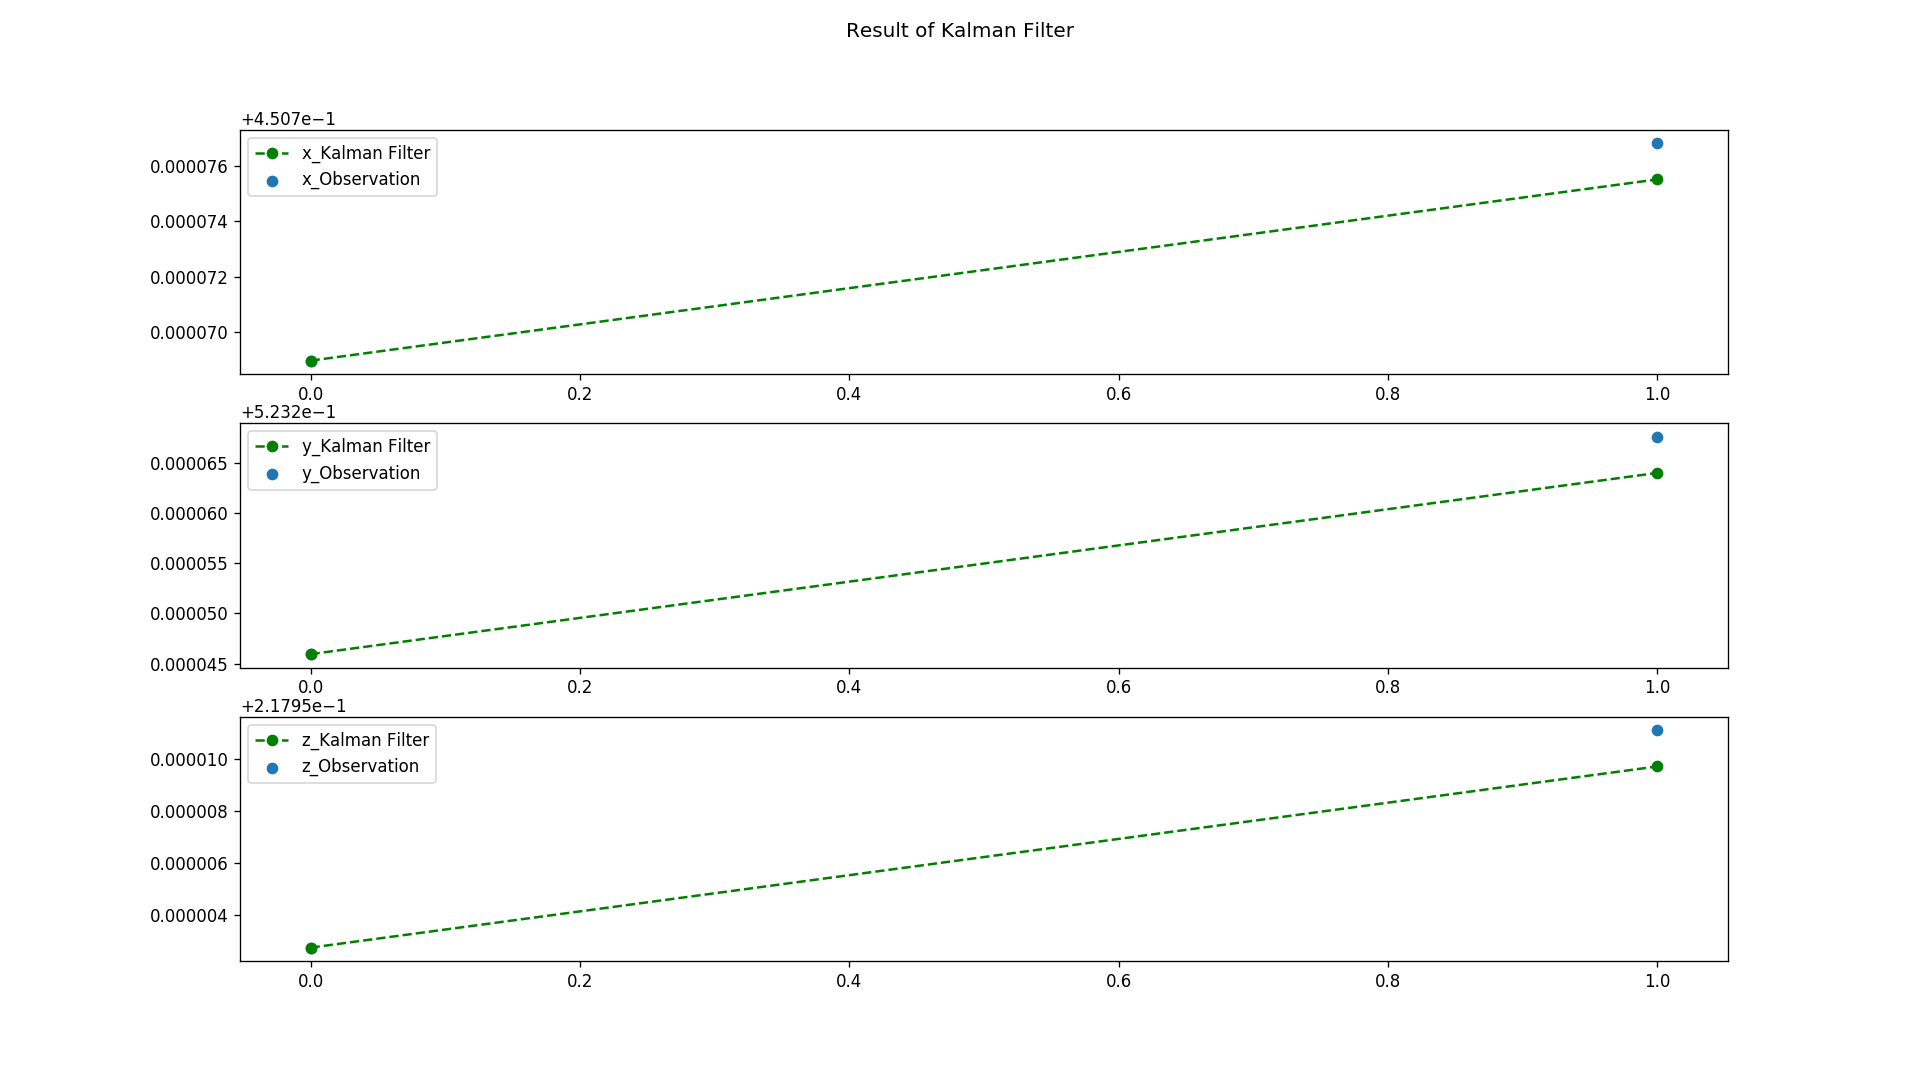
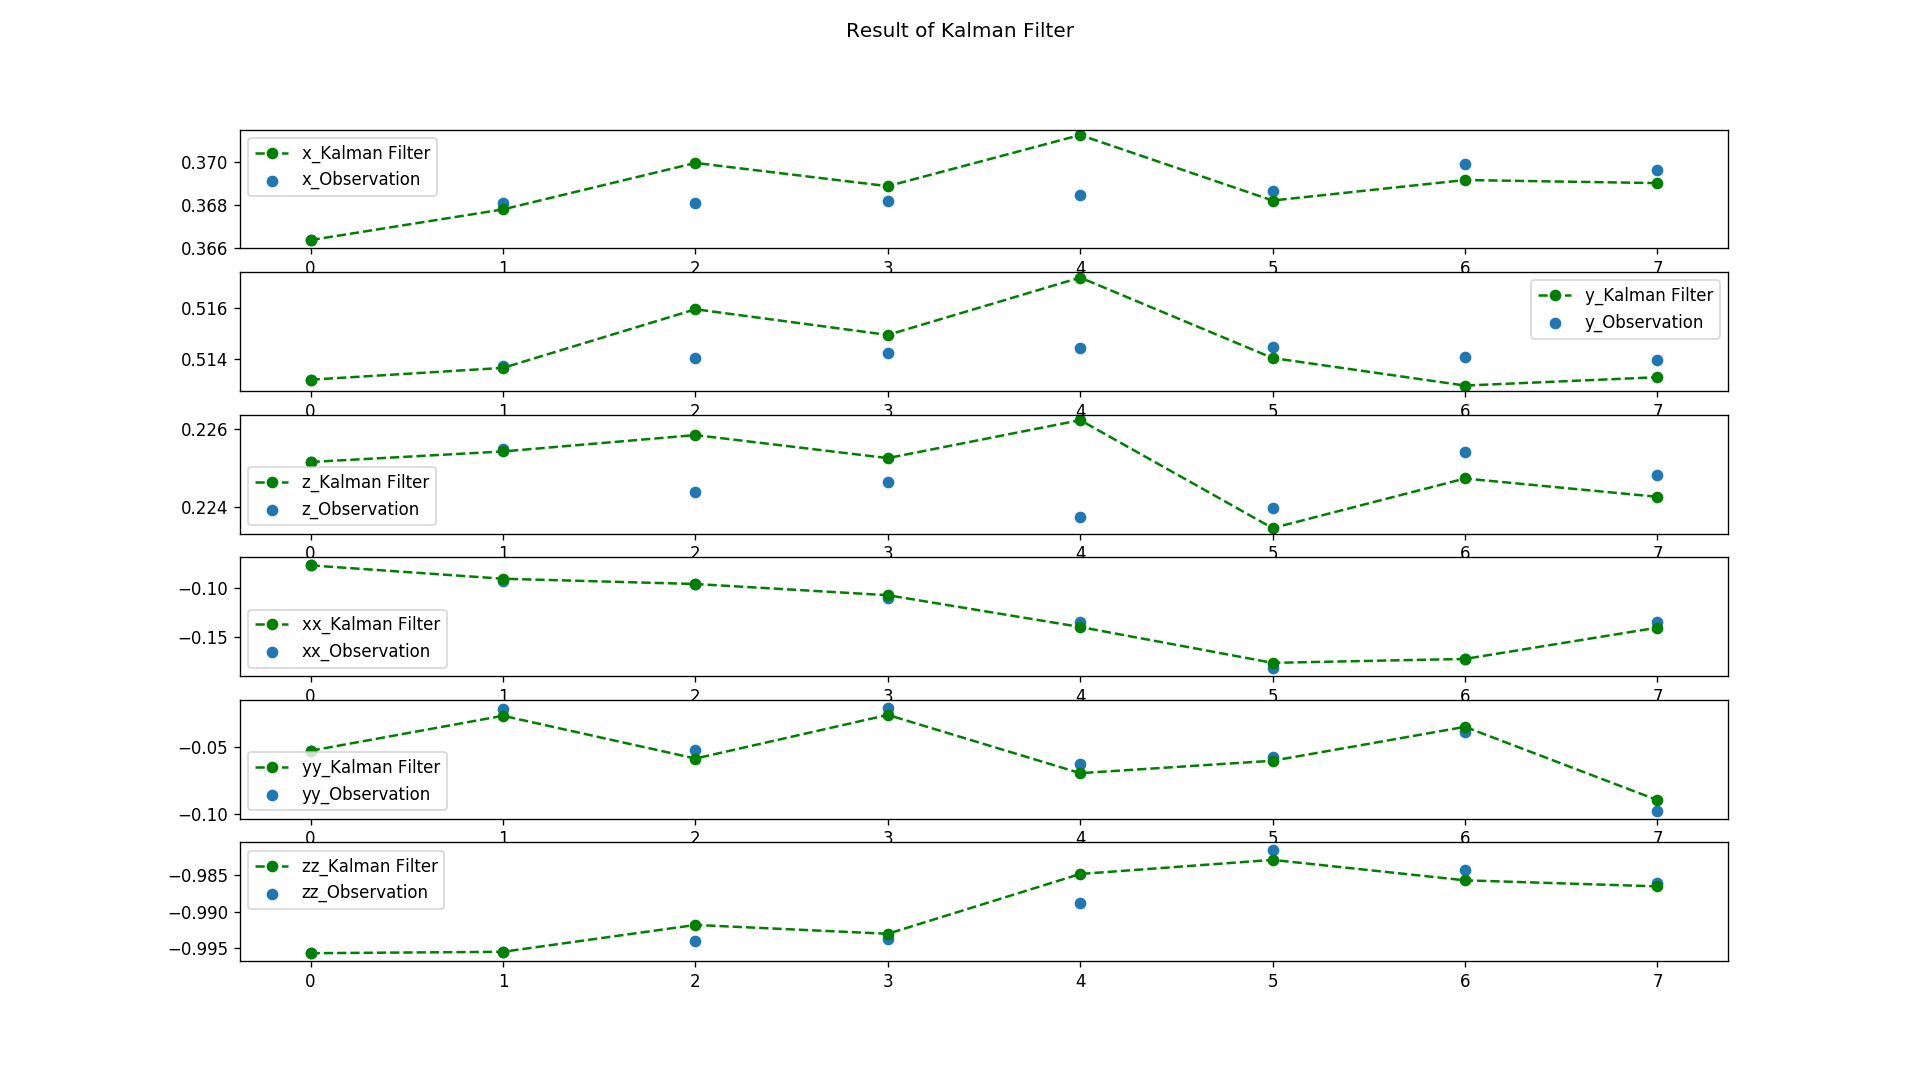
continuous disassembly success

diff --git a/rokae/src/ur_real_robot/ur_control/scripts/kalman.py b/rokae/src/ur_real_robot/ur_control/scripts/kalman.py
@@ -5,6 +5,7 @@ import numpy as np
 import matplotlib
 matplotlib.use('Agg')
 from matplotlib import pyplot as plt
+from scipy.spatial.transform import Rotation as sci_R
 
 import geometry_msgs.msg
 import tf
@@ -26,22 +27,22 @@ class Kalman:
         self.finished=False
         self.plt_time=0
         # self.A = np.diag([1,1,1,1,1,1,1])
-        self.A=np.diag([1,1,1])
+        self.A=np.diag([1,1,1,1,1,1])
         self.B = 0
         self.U1 = 0
         # self.R = np.diag([0.01,0.01,0.01,0.2,0.2,0.2,0.2])
-        self.R = np.diag([0.01,0.01,0.01])
+        self.R = np.diag([0.01,0.01,0.01,0.4,0.4,0.4])
         # self.P0=np.diag([0.05,0.05,0.05,1,1,1,1])
-        self.P0=np.diag([0.05,0.05,0.05])
+        self.P0=np.diag([0.05,0.05,0.05,2,2,2])
         # self.Q=np.diag([0,0,0,0,0,0,0])
-        self.Q=np.diag([0,0,0])
+        self.Q=np.diag([0,0,0,0,0,0])
         # self.H = np.diag([1,1,1,1,1,1,1])
-        self.H = np.diag([1,1,1])
+        self.H = np.diag([1,1,1,1,1,1])
         self.P1_list=[self.P0]
         # self.X1_np=np.array([0,0,0,0,0,0,0]).reshape([7,1])
         # self.Z1_np=np.array([0,0,0,0,0,0,0]).reshape([7,1])
-        self.X1_np=np.array([0,0,0]).reshape([3,1])
-        self.Z1_np=np.array([0,0,0]).reshape([3,1])
+        self.X1_np=np.array([0,0,0,0,0,0]).reshape([6,1])
+        self.Z1_np=np.array([0,0,0,0,0,0]).reshape([6,1])
 
 
 
@@ -66,12 +67,14 @@ class Kalman:
         x=pose.position.x
         y=pose.position.y
         z=pose.position.z
-        xx=pose.orientation.x
-        yy=pose.orientation.y
-        zz=pose.orientation.z
-        w=pose.orientation.w
+        r=sci_R.from_quat([pose.orientation.x, pose.orientation.y, pose.orientation.z, pose.orientation.w])
+        e=np.dot(r.as_dcm(),np.array([0,0,1]).reshape([3,1]))
+        xx=e[0,0]
+        yy=e[1,0]
+        zz=e[2,0]
         # Zi=np.array([x, y, z,xx,yy,zz,w]).reshape([7, 1])
-        Zi=np.array([x, y, z]).reshape([3, 1])
+        Zi=np.array([x, y, z,xx,yy,zz]).reshape([6, 1])
+        print(xx,yy,zz)
         print ("the %d-th iteration"%(s))
         if (s==0):
             self.X1_np= np.copy(Zi)
@@ -82,18 +85,17 @@ class Kalman:
             Z1_pose.position.x = Zi[0,0]
             Z1_pose.position.y = Zi[1,0]
             Z1_pose.position.z = Zi[2,0]
-            # Z1_pose.orientation.x = Zi[3,0]
-            # Z1_pose.orientation.y = Zi[4,0]
-            # Z1_pose.orientation.z = Zi[5,0]
-            # Z1_pose.orientation.w= Zi[6,0]
-            Z1_pose.orientation.x = xx
-            Z1_pose.orientation.y = yy
-            Z1_pose.orientation.z = zz
-            Z1_pose.orientation.w= w
+            Z1_vector=Zi[[3,4,5],:].reshape([1,3])
+            Z1_quat=(self.transform_vector(Z1_vector)).reshape([1,4])
+            # q = tf.transformations.quaternion_from_euler(-math.pi, 0, 0.5*math.pi)
+            Z1_pose.orientation.x = Z1_quat[0,0]
+            Z1_pose.orientation.y = Z1_quat[0,1]
+            Z1_pose.orientation.z = Z1_quat[0,2]
+            Z1_pose.orientation.w= Z1_quat[0,3]
             return Z1_pose
         else:
             # Xi = self.X1_np[:, s - 1].reshape([7, 1])
-            Xi = self.X1_np[:, s - 1].reshape([3, 1])
+            Xi = self.X1_np[:, s - 1].reshape([6, 1])
             Pi = self.P1_list[s - 1]
             X10, P10 = self.kf_predict(Xi, Pi)
             X1, P1=self. kf_update(X10, P10, Zi)
@@ -102,35 +104,49 @@ class Kalman:
             self.P1_list.append(P1)
             self.itr_time+= 1
             self.itr_sum+= 1
+            X1_vector=X1[[3,4,5],:].reshape([1,3])
+            Xi_vector=Xi[[3,4,5],:].reshape([1,3])
+            X1_quat=(self.transform_vector(X1_vector)).reshape([1,4])
+            Xi_quat=(self.transform_vector(Xi_vector)).reshape([1,4])
             if(self.itr_time==self.itr_num):
                 self.finished=True
             else:
                 dist=math.sqrt(pow(X1[0,0]-Xi[0,0],2)+pow(X1[1,0]-Xi[1,0],2)+pow(X1[2,0]-Xi[2,0],2))
                 # (r, p, y) = tf.transformations.euler_from_quaternion([X1[3,0], X1[4,0], X1[5,0], X1[6,0]])
-                # (x1,y1,z1,w1)= (-Xi[3,0], -Xi[4,0], -Xi[5,0], Xi[6,0])
-                # (x2,y2,z2,w2)=(X1[3,0], X1[4,0], X1[5,0], X1[6,0])
-                # ang_dist=2*np.arccos(w1*w2-x1*x2-y1*y2-z1*z2)
-                ang_dist=0
+                (x1,y1,z1,w1)= (-Xi_quat[0,0], -Xi_quat[0,1], -Xi_quat[0,2], Xi_quat[0,3])
+                (x2,y2,z2,w2)=(X1_quat[0,0], X1_quat[0,1], X1_quat[0,2], X1_quat[0,3])
+                ang_dist=2*np.arccos(w1*w2-x1*x2-y1*y2-z1*z2)
+                print('ang_dist:')
+                print(ang_dist)
                 if (dist<0.001) and ((ang_dist<0.087) or (ang_dist>6.196)):
                     self.finished=True
             X1_pose = geometry_msgs.msg.Pose()
             X1_pose.position.x = X1[0,0]
             X1_pose.position.y = X1[1,0]
             X1_pose.position.z = X1[2,0]
-            # X1_pose.orientation.x = X1[3,0]
-            # X1_pose.orientation.y = X1[4,0]
-            # X1_pose.orientation.z = X1[5,0]
-            # X1_pose.orientation.w= X1[6,0]
-            X1_pose.orientation.x = xx
-            X1_pose.orientation.y = yy
-            X1_pose.orientation.z = zz
-            X1_pose.orientation.w= w
+            X1_pose.orientation.x = X1_quat[0,0]
+            X1_pose.orientation.y = X1_quat[0,1]
+            X1_pose.orientation.z = X1_quat[0,2]
+            X1_pose.orientation.w= X1_quat[0,3]
             return X1_pose
-    
+
+    def transform_vector(self,vector):
+        # print('n_vector:', n_vector)
+        c_vector1 = np.cross(vector, [[-1, 0, 0]])
+        nc_vector1=c_vector1/np.linalg.norm(c_vector1)
+        # print('cross vector1:', cross_vector1)
+        c_vector2 = np.cross(vector, c_vector1)
+        nc_vector2=c_vector2/np.linalg.norm(c_vector2)
+        # print('cross vector2:', cross_vector2)
+        R_mat = np.vstack((np.vstack((nc_vector1, nc_vector2)), vector))
+        R_mat = np.linalg.inv(R_mat)
+        sci_r = sci_R.from_dcm(R_mat)
+        return sci_r.as_quat()
+
     def get_former_pose(self):
         s=self.itr_sum
         # Xi=self.X1_np[:, s - 1].reshape([7, 1])
-        Xi=self.X1_np[:, s - 1].reshape([3, 1])        
+        Xi=self.X1_np[:, s - 1].reshape([6, 1])        
         Xi_pose = geometry_msgs.msg.Pose()
         Xi_pose.position.x = Xi[0,0]
         Xi_pose.position.y = Xi[1,0]
@@ -139,13 +155,13 @@ class Kalman:
         # Xi_pose.orientation.y = Xi[4,0]
         # Xi_pose.orientation.z = Xi[5,0]
         # Xi_pose.orientation.w= Xi[6,0]
-
-        q = tf.transformations.quaternion_from_euler(-math.pi, 0, 0.5*math.pi)
-
-        Xi_pose.orientation.x = q[0]
-        Xi_pose.orientation.y = q[1]
-        Xi_pose.orientation.z = q[2]
-        Xi_pose.orientation.w= q[3]
+        Xi_vector=Xi[[3,4,5],:].reshape([1,3])
+        Xi_quat=(self.transform_vector(Xi_vector)).reshape([1,4])
+        # q = tf.transformations.quaternion_from_euler(-math.pi, 0, 0.5*math.pi)
+        Xi_pose.orientation.x = Xi_quat[0,0]
+        Xi_pose.orientation.y = Xi_quat[0,1]
+        Xi_pose.orientation.z = Xi_quat[0,2]
+        Xi_pose.orientation.w= Xi_quat[0,3]
         return Xi_pose
 
     def reset(self):
@@ -167,18 +183,20 @@ class Kalman:
             # ax5 = fig.add_subplot(7, 1, 5)
             # ax6 = fig.add_subplot(7, 1, 6)
             # ax7 = fig.add_subplot(7, 1, 7)
-            ax1 = fig.add_subplot(3, 1, 1)
-            ax2 = fig.add_subplot(3, 1, 2)
-            ax3 = fig.add_subplot(3, 1, 3)
-
+            ax1 = fig.add_subplot(6, 1, 1)
+            ax2 = fig.add_subplot(6, 1, 2)
+            ax3 = fig.add_subplot(6, 1, 3)
+            ax4 = fig.add_subplot(6, 1, 4)
+            ax5 = fig.add_subplot(6, 1, 5)
+            ax6 = fig.add_subplot(6, 1, 6)
             print('plot is working')
 
             ax1.plot(self.X1_np[0, :], 'go--', label="x_Kalman Filter")
             ax2.plot(self.X1_np[1, :], 'go--', label="y_Kalman Filter")
             ax3.plot(self.X1_np[2, :], 'go--', label="z_Kalman Filter")
-            # ax4.plot(self.X1_np[3, :], 'go--', label="xx_Kalman Filter")
-            # ax5.plot(self.X1_np[4, :], 'go--', label="yy_Kalman Filter")
-            # ax6.plot(self.X1_np[5, :], 'go--', label="zz_Kalman Filter")
+            ax4.plot(self.X1_np[3, :], 'go--', label="xx_Kalman Filter")
+            ax5.plot(self.X1_np[4, :], 'go--', label="yy_Kalman Filter")
+            ax6.plot(self.X1_np[5, :], 'go--', label="zz_Kalman Filter")
             # ax7.plot(self.X1_np[6, :], 'go--', label="w_Kalman Filter")
 
             step=self.itr_sum
@@ -188,9 +206,12 @@ class Kalman:
             ax2.legend()
             ax3.scatter(np.arange(step), self.Z1_np[2,:].reshape(step,1), label="z_Observation", marker='o')
             ax3.legend()
-            # ax4.scatter(np.arange(step), self.Z1_np[3,:].reshape(step,1), label="xx_Observation", marker='*')        
-            # ax5.scatter(np.arange(step), self.Z1_np[4,:].reshape(step,1), label="yy_Observation", marker='*')
-            # ax6.scatter(np.arange(step), self.Z1_np[5,:].reshape(step,1), label="zz_Observation", marker='*')
+            ax4.scatter(np.arange(step), self.Z1_np[3,:].reshape(step,1), label="xx_Observation", marker='o') 
+            ax4.legend()
+            ax5.scatter(np.arange(step), self.Z1_np[4,:].reshape(step,1), label="yy_Observation", marker='o')
+            ax5.legend()
+            ax6.scatter(np.arange(step), self.Z1_np[5,:].reshape(step,1), label="zz_Observation", marker='o')
+            ax6.legend()
             # ax7.scatter(np.arange(step), self.Z1_np[6,:].reshape(step,1), label="w_Observation", marker='*')
             plt.legend()
             plt.suptitle('Result of Kalman Filter')            

diff --git a/rokae/src/ur_real_robot/ur_control/scripts/test_clear_obstacle.py b/rokae/src/ur_real_robot/ur_control/scripts/test_clear_obstacle.py
@@ -112,31 +112,21 @@ class TestClearObstacle(TestBase):
                 # x=circle[1]+int(0.5*(width-height))
                 # y=circle[0]
                 if (s==0):
-<<<<<<< HEAD
                     # circle = self.findBestMatchCircle(circles) 
                     min_dist=100
                     curr_pose= self.group.get_current_pose(self.effector).pose
-                    for screw in circles:
-                        self.add_bolt_frame(screw[1]-(r_width-width)/2, screw[0]-(r_height-height)/2, latest_infos)
+                    for screw in circlesbox:
+                        screw[0] = screw[0]-(r_width-width)/2
+                        screw[2] = screw[2]-(r_width-width)/2
+                        screw[1] = screw[1]-(r_height-height)/2
+                        screw[3] = screw[3]-(r_height-height)/2                        
+                        self.add_bolt_frameV2(screw, latest_infos)
                         screw_pose=self.get_bolt_pose_in_world_frame(latest_infos)
                         temp_dist=math.sqrt(pow(screw_pose.position.x - curr_pose.position.x ,2)+pow(screw_pose.position.y - curr_pose.position.y ,2))            
                         if (temp_dist<min_dist):
                             min_dist=temp_dist
                             conv_pose=screw_pose
                     real_pose=kalman.iteration(conv_pose)
-=======
-                    circlebox = self.findBestMatchCircle(circlesbox)                
-                    # x=circle[0]-(r_width-width)/2
-                    # y=circle[1]-(r_height-height)/2
-                    # self.add_bolt_frame(x, y, latest_infos)
-                    circlebox[0] = circlebox[0]-(r_width-width)/2
-                    circlebox[2] = circlebox[2]-(r_width-width)/2
-                    circlebox[1] = circlebox[1]-(r_height-height)/2
-                    circlebox[3] = circlebox[3]-(r_height-height)/2
-                    self.add_bolt_frameV2(circlebox, latest_infos)
-                    bolt_pose = self.get_bolt_pose_in_world_frame(latest_infos)
-                    real_pose=kalman.iteration(bolt_pose)
->>>>>>> e2266850d266a7a3a7ff290f680f6248af1bb961
                     self.adjust_bolt_frame(real_pose,latest_infos)
                     ee_pose=self.get_tgt_pose_in_world_frame(latest_infos)
 
@@ -151,7 +141,6 @@ class TestClearObstacle(TestBase):
                         screw[1] = screw[1]-(r_height-height)/2
                         screw[3] = screw[3]-(r_height-height)/2
                         self.add_bolt_frameV2(screw, latest_infos)
-                        # self.add_bolt_frame(screw[1]-(r_width-width)/2, screw[0]-(r_height-height)/2, latest_infos)
                         screw_pose=self.get_bolt_pose_in_world_frame(latest_infos)
                         former_pose=kalman.get_former_pose()
                         temp_diff=math.sqrt(pow(screw_pose.position.x - former_pose.position.x ,2)+pow(screw_pose.position.y - former_pose.position.y ,2)+pow(screw_pose.position.z - former_pose.position.z ,2))            

diff --git a/rokae/src/ur_real_robot/ur_control/scripts/test_aim_target.py b/rokae/src/ur_real_robot/ur_control/scripts/test_aim_target.py
@@ -90,31 +90,21 @@ class TestAimTarget(TestBase):
                 # x=circle[1]+int(0.5*(width-height))
                 # y=circle[0]
                 if (s==0):
-<<<<<<< HEAD
                     # circle = self.findBestMatchCircle(circles) 
                     min_dist=100
                     curr_pose= self.group.get_current_pose(self.effector).pose
-                    for screw in circles:
-                        self.add_bolt_frame(screw[1]-(r_width-width)/2, screw[0]-(r_height-height)/2, latest_infos)
+                    for screw in circlesbox:
+                        screw[0] = screw[0]-(r_width-width)/2
+                        screw[2] = screw[2]-(r_width-width)/2
+                        screw[1] = screw[1]-(r_height-height)/2
+                        screw[3] = screw[3]-(r_height-height)/2                        
+                        self.add_bolt_frameV2(screw, latest_infos)
                         screw_pose=self.get_bolt_pose_in_world_frame(latest_infos)
                         temp_dist=math.sqrt(pow(screw_pose.position.x - curr_pose.position.x ,2)+pow(screw_pose.position.y - curr_pose.position.y ,2))            
                         if (temp_dist<min_dist):
                             min_dist=temp_dist
                             conv_pose=screw_pose
                     real_pose=kalman.iteration(conv_pose)
-=======
-                    circlebox = self.findBestMatchCircle(circlesbox)                
-                    # x=circle[0]-(r_width-width)/2
-                    # y=circle[1]-(r_height-height)/2
-                    # self.add_bolt_frame(x, y, latest_infos)
-                    circlebox[0] = circlebox[0]-(r_width-width)/2
-                    circlebox[2] = circlebox[2]-(r_width-width)/2
-                    circlebox[1] = circlebox[1]-(r_height-height)/2
-                    circlebox[3] = circlebox[3]-(r_height-height)/2
-                    self.add_bolt_frameV2(circlebox, latest_infos)
-                    bolt_pose = self.get_bolt_pose_in_world_frame(latest_infos)
-                    real_pose=kalman.iteration(bolt_pose)
->>>>>>> e2266850d266a7a3a7ff290f680f6248af1bb961
                     self.adjust_bolt_frame(real_pose,latest_infos)
                     ee_pose=self.get_tgt_pose_in_world_frame(latest_infos)
 

diff --git a/rokae/src/ur_real_robot/ur_control/scripts/test_base.py b/rokae/src/ur_real_robot/ur_control/scripts/test_base.py
@@ -120,10 +120,10 @@ class TestBase(object):
         tgt_pose_in_bolt_frame.position.z = 0
         # q = tf.transformations.quaternion_from_euler(0, 1.57, 0)
         q = tf.transformations.quaternion_from_euler(0, 0, 0)
-        # tgt_pose_in_bolt_frame.orientation.x = q[0]
-        # tgt_pose_in_bolt_frame.orientation.y = q[1]
-        # tgt_pose_in_bolt_frame.orientation.z = q[2]
-        # tgt_pose_in_bolt_frame.orientation.w = q[3]
+        tgt_pose_in_bolt_frame.orientation.x = q[0]
+        tgt_pose_in_bolt_frame.orientation.y = q[1]
+        tgt_pose_in_bolt_frame.orientation.z = q[2]
+        tgt_pose_in_bolt_frame.orientation.w = q[3]
         # self.print_pose(tgt_pose_in_bolt_frame, 'tgt_pose_in_bolt_frame')
         #SJTU
         tgt_pose_in_world_frame = self.transform_pose("bolt_frame",
@@ -131,11 +131,11 @@ class TestBase(object):
                                                       tgt_pose_in_bolt_frame,
                                                       all_info['bolt_ts'])
 
-        q = tf.transformations.quaternion_from_euler(-math.pi, 0, 0.5*math.pi)
-        tgt_pose_in_world_frame.orientation.x = q[0]
-        tgt_pose_in_world_frame.orientation.y = q[1]
-        tgt_pose_in_world_frame.orientation.z = q[2]
-        tgt_pose_in_world_frame.orientation.w = q[3]
+        # q = tf.transformations.quaternion_from_euler(-math.pi, 0, 0.5*math.pi)
+        # tgt_pose_in_world_frame.orientation.x = q[0]
+        # tgt_pose_in_world_frame.orientation.y = q[1]
+        # tgt_pose_in_world_frame.orientation.z = q[2]
+        # tgt_pose_in_world_frame.orientation.w = q[3]
 
         print (tgt_pose_in_world_frame)
         (r, p, y) = tf.transformations.euler_from_quaternion([tgt_pose_in_world_frame.orientation.x, tgt_pose_in_world_frame.orientation.y, tgt_pose_in_world_frame.orientation.z, tgt_pose_in_world_frame.orientation.w])

diff --git a/rokae/src/ur_real_robot/ur_control/scripts/test_insert.py b/rokae/src/ur_real_robot/ur_control/scripts/test_insert.py
@@ -55,8 +55,8 @@ class TestInsert(TestBase):
             tamp_depth=scale_depth * i
             # SJTU HERE CHANGED ori: z x y
             tgt_pose_in_real_frame = geometry_msgs.msg.Pose()
-            tgt_pose_in_real_frame.position.x = -0.006+tamp_radius * math.cos(tamp_angle)
-            tgt_pose_in_real_frame.position.y = 0.004+tamp_radius * math.sin(tamp_angle)
+            tgt_pose_in_real_frame.position.x = -0.008+tamp_radius * math.cos(tamp_angle)
+            tgt_pose_in_real_frame.position.y =0.004+tamp_radius * math.sin(tamp_angle)
             tgt_pose_in_real_frame.position.z = -tool_len+tamp_depth
             q = tf.transformations.quaternion_from_euler(0, 0, tamp_angle)
             tgt_pose_in_real_frame.orientation.x = q[0]
@@ -208,7 +208,7 @@ class TestInsert(TestBase):
     
     def get_recramp_trajectory(self,vector):
         print('get_recramp_trajectory')
-        scale_step=0.015
+        scale_step=0.012
         trajectory = []
         start_pose= self.group.get_current_pose(self.effector).pose
         tgt_pose_in_effector_frame = geometry_msgs.msg.Pose()
@@ -243,7 +243,7 @@ class TestInsert(TestBase):
     def get_tgt_pose_in_world_frame(self,all_info):
         tool_len = 0.42
         tgt_pose_in_real_frame = geometry_msgs.msg.Pose()
-        tgt_pose_in_real_frame.position.x = -0.006
+        tgt_pose_in_real_frame.position.x = -0.008
         tgt_pose_in_real_frame.position.y = 0.004
         tgt_pose_in_real_frame.position.z = -tool_len
 

diff --git a/rokae/src/ur_real_robot/ur_control/scripts/test_planner.py b/rokae/src/ur_real_robot/ur_control/scripts/test_planner.py
@@ -227,7 +227,7 @@ class TSTPlanner:
 
     def do_action(self):
         #执行动作
-        filter=Kalman(10)
+        filter=Kalman(20)
         move=PrimAction('move')
         mate=PrimAction('mate')
         push=PrimAction('push')
@@ -279,7 +279,7 @@ class TSTPlanner:
                             i = i + 1
                             if self.action=='disassemble':
                                 filter.release()
-                                filter=Kalman(10)
+                                filter=Kalman(20)
                                 self.stage={'have_coarse_pose':True, 'above_bolt':False,'target_aim':False, 'target_clear':False,'cramped':False,'disassembled':False}
                                 if not self.next_pose is None:
                                     self.ret_dict['coarse_pose']=self.next_pose

diff --git a/rokae/src/ur_real_robot/YOLO_v5_detect/yolo.py b/rokae/src/ur_real_robot/YOLO_v5_detect/yolo.py
@@ -32,7 +32,7 @@ class YOLO(object):
         # ---------------------------------------------------------------------#
         #   只有得分大于置信度的预测框会被保留下来,原始置信度=0.75
         # ---------------------------------------------------------------------#
-        "confidence": 0.3,
+        "confidence": 0.75,
         # ---------------------------------------------------------------------#
         #   非极大抑制所用到的nms_iou大小
         # ---------------------------------------------------------------------#

diff --git a/rokae/src/ur_real_robot/ur_control/scripts/RANSAC_plane.py b/rokae/src/ur_real_robot/ur_control/scripts/RANSAC_plane.py
@@ -54,7 +54,7 @@ class PlaneModel():
         return res
 
 
-def cal_ransac_plane(data, min_samples=5, residual_threshold=0.005,
+def cal_ransac_plane(data, min_samples=3, residual_threshold=0.005,
                      max_trials=1000, stop_sample_num=np.inf, stop_residuals_sum=0,
                      stop_probability=1):
     """
